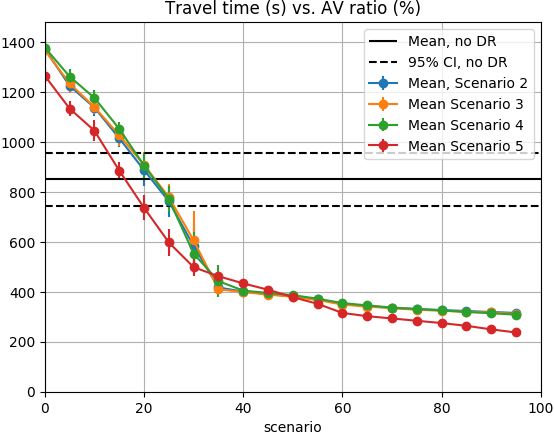
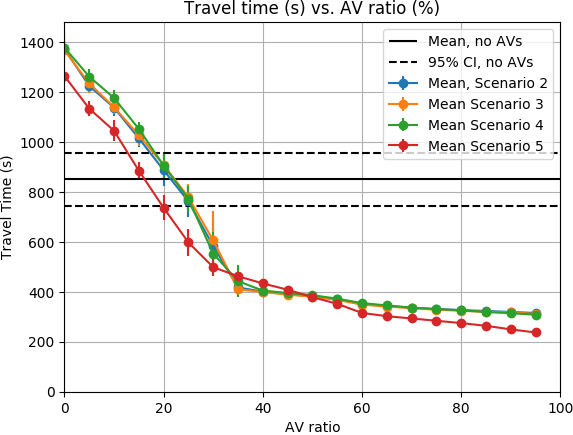
dr

diff --git a/main2.py b/main2.py
@@ -209,7 +209,9 @@ cet_std = 53
 ax.hlines(y=cet_mean, xmin=0, xmax=100)
 ax.hlines(y=[cet_mean+2*cet_std, cet_mean-2*cet_std], xmin=0, xmax=100, linestyle='--')
 
-ax.legend(['Mean, no DR', '95% CI, no DR', 'Mean, Scenario 2', 'Mean Scenario 3', 'Mean Scenario 4', 'Mean Scenario 5'])
+ax.legend(['Mean, no AVs', '95% CI, no AVs', 'Mean, Scenario 2', 'Mean Scenario 3', 'Mean Scenario 4', 'Mean Scenario 5'])
+ax.set_xlabel("AV ratio")
+ax.set_ylabel("Travel Time (s)")
 
 plt.savefig("results/total.png", bbox_inches='tight', pad_inches=0.0)
 plt.close()
@@ -281,7 +283,9 @@ ax = df5.plot(ax=ax,
 ax.hlines(y=cet_mean, xmin=0, xmax=100)
 ax.hlines(y=[cet_mean+2*cet_std, cet_mean-2*cet_std], xmin=0, xmax=100, linestyle='--')
 
-ax.legend(['Mean, no DR', '95% CI, no DR', 'Mean, Scenario 2', 'Mean Scenario 3', 'Mean Scenario 4', 'Mean Scenario 5'])
+ax.legend(['Mean, no AVs', '95% CI, no AVs', 'Mean, Scenario 2', 'Mean Scenario 3', 'Mean Scenario 4', 'Mean Scenario 5'])
+ax.set_xlabel("AV ratio")
+ax.set_ylabel("Travel Time (s)")
 
 plt.savefig("results/dr.png", bbox_inches='tight', pad_inches=0.0)
 plt.close()
@@ -357,6 +361,9 @@ ax = df5.plot(ax=ax,
 ax.hlines(y=cet_mean, xmin=0, xmax=100)
 ax.hlines(y=[cet_mean+2*cet_std, cet_mean-2*cet_std], xmin=0, xmax=100, linestyle='--')
 
-ax.legend(['Mean, no DR', '95% CI, no DR', 'Mean, Scenario 2', 'Mean Scenario 3', 'Mean Scenario 4', 'Mean Scenario 5'])
+ax.legend(['Mean, no AVs', '95% CI, no AVs', 'Mean, Scenario 2', 'Mean Scenario 3', 'Mean Scenario 4', 'Mean Scenario 5'])
+ax.set_xlabel("AV ratio")
+ax.set_ylabel("Travel Time (s)")
+
 plt.savefig("results/non_dr.png", bbox_inches='tight', pad_inches=0.0)
 plt.close()
